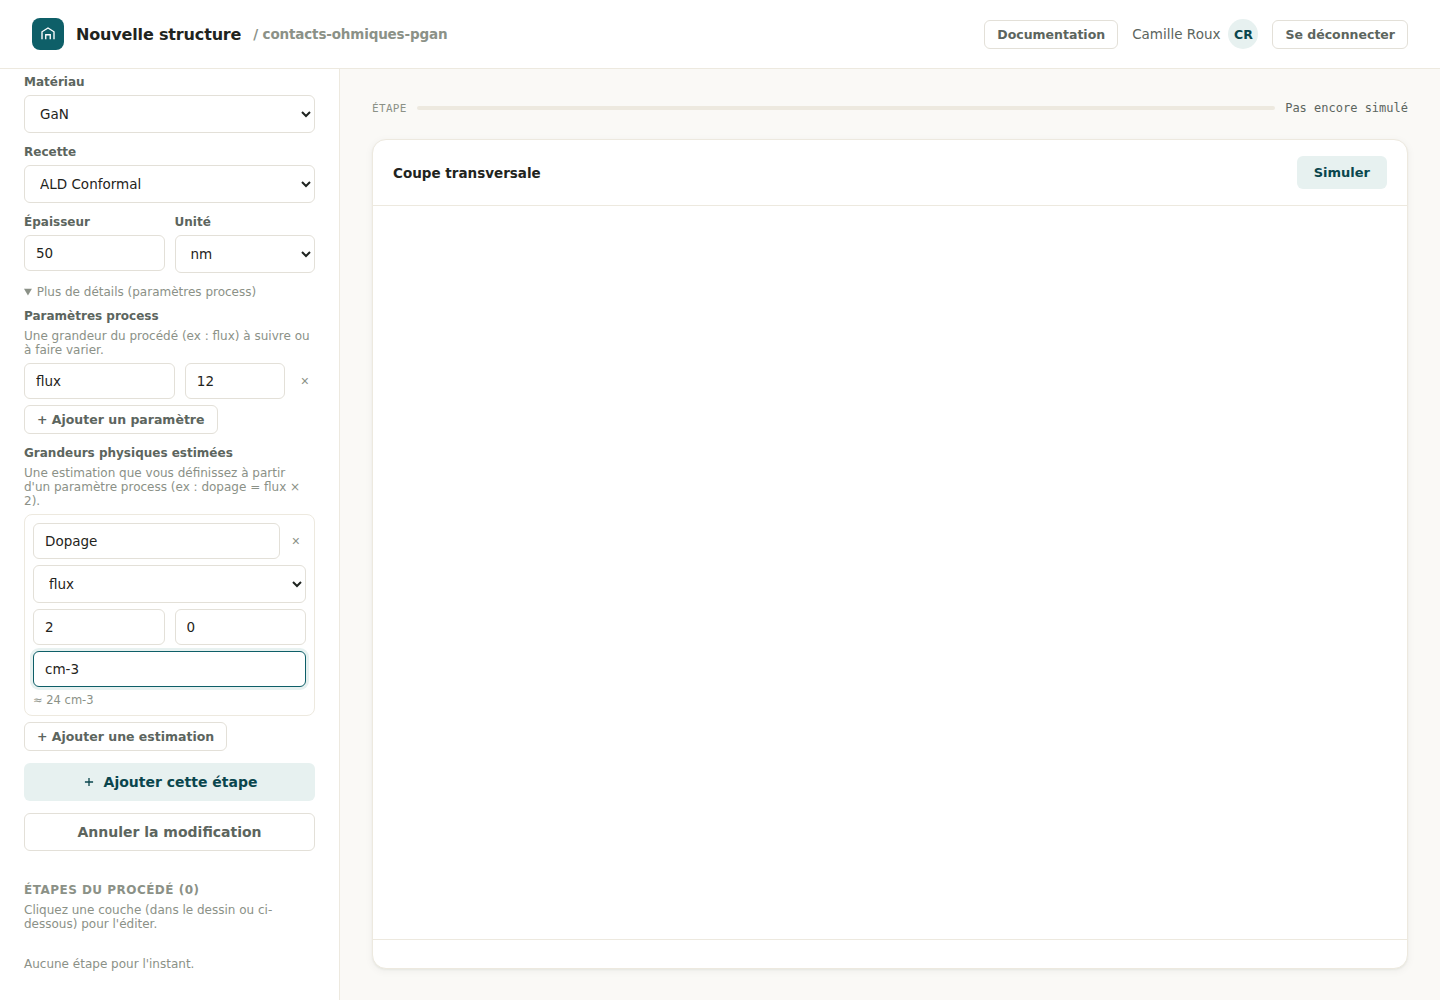
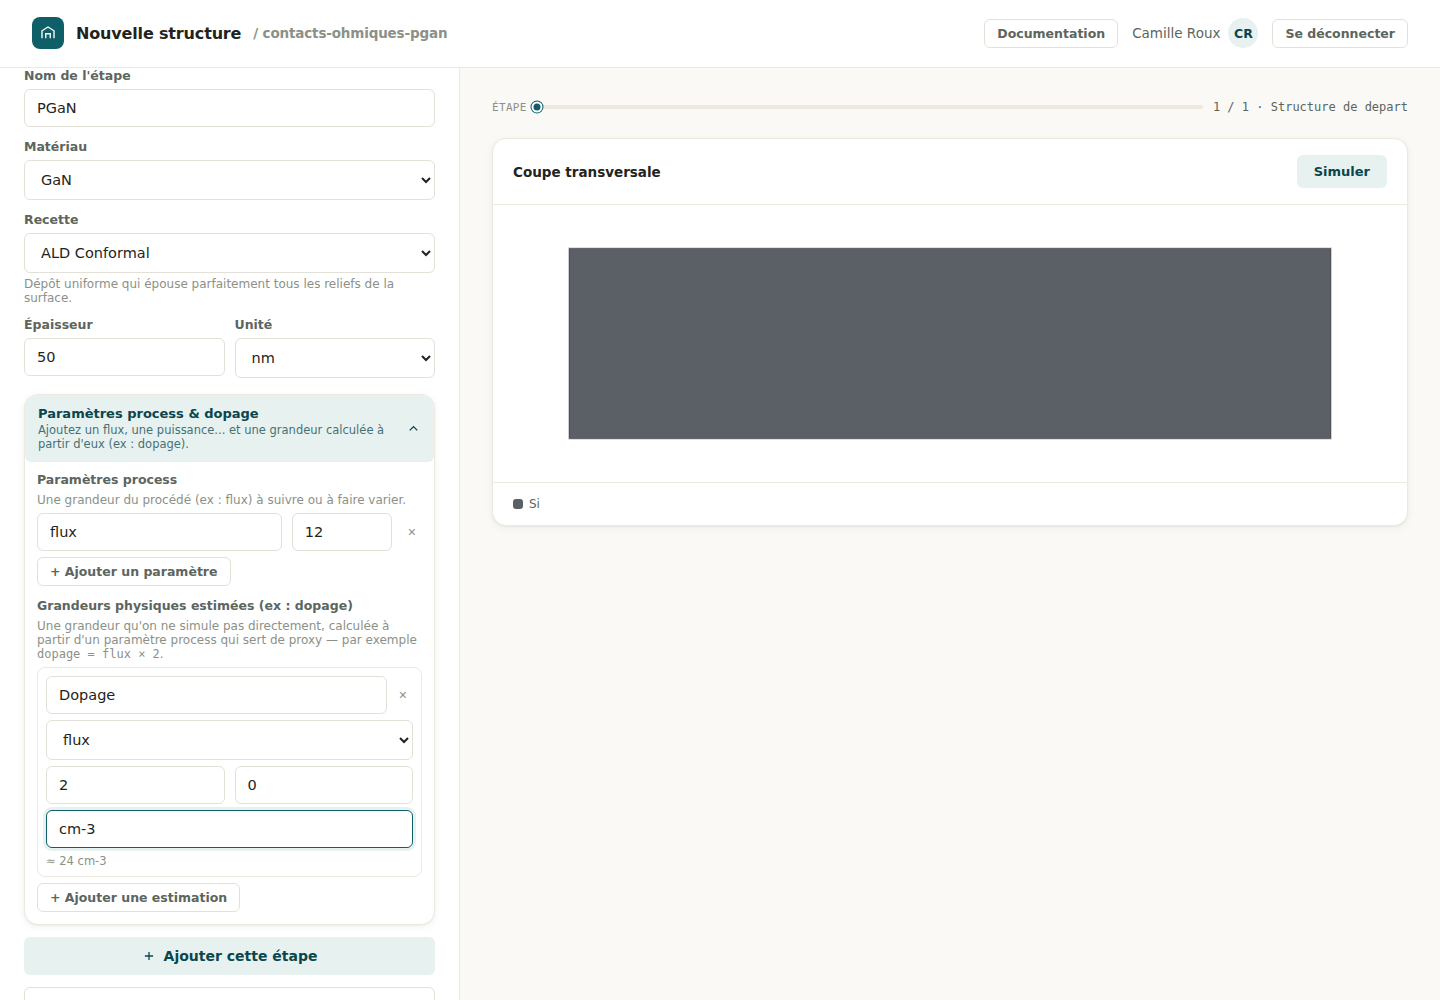
Refonte de la mise en page du constructeur : moins de canevas, plus de place aux paramètres
Trois plaintes concrètes sur l'ergonomie du constructeur :
- La coupe transversale occupait tout l'écran (colonne flex:1 sur toute la hauteur de la
  fenêtre) alors que le dessin lui-même reste simple - beaucoup d'espace vide.
- La colonne des paramètres était fixée à 340px, avec Substrat + Vue + étapes + campagne +
  objectifs + piste + lancement empilés verticalement : champs étroits, scroll long pour
  atteindre "Lancer".

Corrigé :
- Panneau des paramètres élargi à 460px, champs agrandis (padding/police) maintenant qu'ils
  ont la place.
- Coupe transversale plafonnée à 54vh au lieu de flex:1 - ne domine plus l'écran.
- Remplacement des sections repliables "Campagne"/"Objectifs" (ajoutées la passe précédente
  pour les rendre visibles) par de vrais onglets "Structure / Campagne (DOE) / Objectifs" :
  chaque onglet n'affiche que ce qui le concerne, "Lancer" reste toujours atteignable sans
  scroller à travers des sections sans rapport.
- Captures d'écran du guide et des exemples régénérées pour refléter la nouvelle interface.

diff --git a/spectre/api/static/structure-builder.html b/spectre/api/static/structure-builder.html
@@ -33,70 +33,74 @@
   <div class="builder-shell">
     <div class="builder-sidebar">
 
-      <div id="substrate-section">
-        <div class="section-title" style="margin-bottom:14px;">Substrat</div>
-        <div class="field-group">
-          <div><label>Matériau</label><select class="field" id="substrate-material"></select></div>
-          <div class="field-row">
-            <div><label>Largeur</label><input class="field" id="substrate-width" type="number" value="200"></div>
-            <div><label>Unité</label><select class="field" id="substrate-width-unit"><option value="nm" selected>nm</option><option value="um">µm</option></select></div>
-          </div>
-          <div class="field-row">
-            <div><label>Épaisseur</label><input class="field" id="substrate-thickness" type="number" value="50"></div>
-            <div><label>Unité</label><select class="field" id="substrate-thickness-unit"><option value="nm" selected>nm</option><option value="um">µm</option></select></div>
+      <div class="builder-tabs">
+        <button class="builder-tab active" id="tab-btn-structure" type="button">Structure</button>
+        <button class="builder-tab" id="tab-btn-campagne" type="button">Campagne (DOE)</button>
+        <button class="builder-tab" id="tab-btn-objectifs" type="button">Objectifs</button>
+      </div>
+
+      <div class="builder-tab-panel" id="tab-panel-structure">
+
+        <div id="substrate-section">
+          <div class="section-title" style="margin-bottom:14px;">Substrat</div>
+          <div class="field-group">
+            <div><label>Matériau</label><select class="field" id="substrate-material"></select></div>
+            <div class="field-row">
+              <div><label>Largeur</label><input class="field" id="substrate-width" type="number" value="200"></div>
+              <div><label>Unité</label><select class="field" id="substrate-width-unit"><option value="nm" selected>nm</option><option value="um">µm</option></select></div>
+            </div>
+            <div class="field-row">
+              <div><label>Épaisseur</label><input class="field" id="substrate-thickness" type="number" value="50"></div>
+              <div><label>Unité</label><select class="field" id="substrate-thickness-unit"><option value="nm" selected>nm</option><option value="um">µm</option></select></div>
+            </div>
           </div>
         </div>
-      </div>
 
-      <div>
-        <div class="section-title" style="margin-bottom:8px;">Vue</div>
-        <div class="view-toggle" style="margin-bottom:14px;">
-          <button class="view-toggle__btn active" id="view-mode-couches" type="button">Par couches</button>
-          <button class="view-toggle__btn" id="view-mode-etapes" type="button">Par étapes</button>
-        </div>
-        <div class="help" id="view-mode-help" style="margin-bottom:14px;">Cliquez une couche du dessin pour l'éditer. Disponible tant que la structure n'est faite que de dépôts (empilement d'épitaxie).</div>
-      </div>
-
-      <div id="step-form-section" style="display:none;">
-        <div class="section-title" style="margin-bottom:14px;" id="step-form-title">Ajouter une étape</div>
-        <div class="field-group">
-          <div>
-            <label>Type d'étape</label>
-            <select class="field" id="kind-select">
-              <option value="deposition">Dépôt</option>
-              <option value="etch">Gravure</option>
-              <option value="planarization">Planarisation</option>
-              <option value="lithography">Lithographie</option>
-              <option value="chemical">Étape chimique</option>
-              <option value="resist_strip">Retrait de résine</option>
-            </select>
+        <div>
+          <div class="section-title" style="margin-bottom:8px;">Vue</div>
+          <div class="view-toggle" style="margin-bottom:14px;">
+            <button class="view-toggle__btn active" id="view-mode-couches" type="button">Par couches</button>
+            <button class="view-toggle__btn" id="view-mode-etapes" type="button">Par étapes</button>
           </div>
-          <div id="kind-fields" class="field-group"></div>
-          <button class="btn btn-tint btn-block" id="add-step-btn" type="button">
-            <svg width="14" height="14" viewBox="0 0 24 24" fill="none" stroke="currentColor" stroke-width="2.2"><path d="M12 5v14M5 12h14"/></svg>
-            <span id="add-step-btn-label">Ajouter cette étape</span>
-          </button>
-          <button class="btn btn-line btn-block" id="cancel-edit-btn" type="button" style="display:none;">Annuler la modification</button>
+          <div class="help" id="view-mode-help" style="margin-bottom:14px;">Cliquez une couche du dessin pour l'éditer. Disponible tant que la structure n'est faite que de dépôts (empilement d'épitaxie).</div>
         </div>
+
+        <div id="step-form-section" style="display:none;">
+          <div class="section-title" style="margin-bottom:14px;" id="step-form-title">Ajouter une étape</div>
+          <div class="field-group">
+            <div>
+              <label>Type d'étape</label>
+              <select class="field" id="kind-select">
+                <option value="deposition">Dépôt</option>
+                <option value="etch">Gravure</option>
+                <option value="planarization">Planarisation</option>
+                <option value="lithography">Lithographie</option>
+                <option value="chemical">Étape chimique</option>
+                <option value="resist_strip">Retrait de résine</option>
+              </select>
+            </div>
+            <div id="kind-fields" class="field-group"></div>
+            <button class="btn btn-tint btn-block" id="add-step-btn" type="button">
+              <svg width="14" height="14" viewBox="0 0 24 24" fill="none" stroke="currentColor" stroke-width="2.2"><path d="M12 5v14M5 12h14"/></svg>
+              <span id="add-step-btn-label">Ajouter cette étape</span>
+            </button>
+            <button class="btn btn-line btn-block" id="cancel-edit-btn" type="button" style="display:none;">Annuler la modification</button>
+          </div>
+        </div>
+
+        <div>
+          <div class="section-title" style="margin-bottom:6px;">Étapes du procédé (<span id="steps-count">0</span>)</div>
+          <div class="help" style="margin-bottom:10px;" id="steps-list-help">Cliquez une étape pour la modifier ; ▲▼ pour la déplacer.</div>
+          <div id="steps-list" style="display:flex;flex-direction:column;gap:8px;"></div>
+          <button class="btn btn-line btn-block" id="add-step-shortcut-btn" type="button" style="margin-top:10px;display:none;">+ Ajouter une couche</button>
+        </div>
+
       </div>
 
-      <div style="flex:1;">
-        <div class="section-title" style="margin-bottom:6px;">Étapes du procédé (<span id="steps-count">0</span>)</div>
-        <div class="help" style="margin-bottom:10px;" id="steps-list-help">Cliquez une étape pour la modifier ; ▲▼ pour la déplacer.</div>
-        <div id="steps-list" style="display:flex;flex-direction:column;gap:8px;"></div>
-        <button class="btn btn-line btn-block" id="add-step-shortcut-btn" type="button" style="margin-top:10px;display:none;">+ Ajouter une couche</button>
-      </div>
-
-      <details id="campaign-section" class="card" style="padding:0;background:var(--bg);overflow:hidden;flex-shrink:0;">
-        <summary class="disclosure-btn disclosure-btn--tint">
-          <span>
-            Campagne DOE — plusieurs échantillons (split)
-            <span class="disclosure-btn__sub">Faire varier un ou plusieurs paramètres (ex : dopage) et lancer tous les échantillons en une fois.</span>
-          </span>
-          <svg class="disclosure-btn__chevron" width="16" height="16" viewBox="0 0 24 24" fill="none" stroke="currentColor" stroke-width="2.2"><path d="M6 9l6 6 6-6"/></svg>
-        </summary>
-        <div style="padding:14px 16px 16px;">
-          <div class="help" style="margin-bottom:10px;">Faites varier un ou plusieurs paramètres pour lancer une campagne de plusieurs échantillons en une seule expérience. Avec plusieurs paramètres, toutes les combinaisons sont générées (ex : 3 épaisseurs &times; 3 angles = 9 échantillons). La feuille de split (qui a reçu quelle valeur) apparaîtra sur la fiche de l'expérience une fois lancée.</div>
+      <div class="builder-tab-panel" id="tab-panel-campagne" style="display:none;">
+        <div>
+          <div class="section-title" style="margin-bottom:6px;">Campagne DOE — plusieurs échantillons (split)</div>
+          <div class="help" style="margin-bottom:12px;">Faites varier un ou plusieurs paramètres (ex : dopage) pour lancer une campagne de plusieurs échantillons en une seule expérience. Avec plusieurs paramètres, toutes les combinaisons sont générées (ex : 3 épaisseurs &times; 3 angles = 9 échantillons). La feuille de split (qui a reçu quelle valeur) apparaîtra sur la fiche de l'expérience une fois lancée.</div>
           <div id="campaign-factors" style="display:flex;flex-direction:column;gap:10px;margin-bottom:10px;"></div>
           <button class="btn btn-line btn-block" id="campaign-add-factor-btn" type="button" style="margin-bottom:10px;">+ Ajouter un paramètre</button>
           <div style="display:flex;gap:8px;">
@@ -105,38 +109,33 @@
           </div>
           <div id="campaign-result"></div>
         </div>
-      </details>
+      </div>
 
-      <details id="objectives-section" class="card" style="padding:0;overflow:hidden;flex-shrink:0;">
-        <summary class="disclosure-btn disclosure-btn--line">
-          <span>
-            Objectifs
-            <span class="disclosure-btn__sub">Ce qu'on cherche à savoir, et comment on saura si c'est atteint.</span>
-          </span>
-          <svg class="disclosure-btn__chevron" width="16" height="16" viewBox="0 0 24 24" fill="none" stroke="currentColor" stroke-width="2.2"><path d="M6 9l6 6 6-6"/></svg>
-        </summary>
-        <div style="padding:0 16px 16px;">
-        <div id="objectives-list" style="display:flex;flex-direction:column;gap:10px;margin-bottom:12px;"></div>
-        <form id="objective-form" style="display:flex;flex-direction:column;gap:8px;">
-          <div><label>Objectif</label><input class="field" id="obj-name" placeholder="ex : isolation électrique" required></div>
-          <div><label>Pourquoi cet objectif</label><textarea class="field" id="obj-rationale" rows="2" placeholder="ex : condition pour passer en production"></textarea></div>
-          <div class="field-row">
-            <div><label>Mesure</label><input class="field" id="obj-metric" placeholder="ex : resistivity_ohm_cm" required></div>
-            <div><label>Sens</label>
-              <select class="field" id="obj-direction">
-                <option value="observe">Observer</option>
-                <option value="maximize">Maximiser</option>
-                <option value="minimize">Minimiser</option>
-                <option value="target">Cible précise</option>
-              </select>
+      <div class="builder-tab-panel" id="tab-panel-objectifs" style="display:none;">
+        <div>
+          <div class="section-title" style="margin-bottom:6px;">Objectifs</div>
+          <div class="help" style="margin-bottom:12px;">Ce qu'on cherche à savoir avec cette expérience, et comment on saura si c'est atteint.</div>
+          <div id="objectives-list" style="display:flex;flex-direction:column;gap:10px;margin-bottom:12px;"></div>
+          <form id="objective-form" style="display:flex;flex-direction:column;gap:8px;">
+            <div><label>Objectif</label><input class="field" id="obj-name" placeholder="ex : isolation électrique" required></div>
+            <div><label>Pourquoi cet objectif</label><textarea class="field" id="obj-rationale" rows="2" placeholder="ex : condition pour passer en production"></textarea></div>
+            <div class="field-row">
+              <div><label>Mesure</label><input class="field" id="obj-metric" placeholder="ex : resistivity_ohm_cm" required></div>
+              <div><label>Sens</label>
+                <select class="field" id="obj-direction">
+                  <option value="observe">Observer</option>
+                  <option value="maximize">Maximiser</option>
+                  <option value="minimize">Minimiser</option>
+                  <option value="target">Cible précise</option>
+                </select>
+              </div>
             </div>
-          </div>
-          <div><label>Valeur cible (optionnelle)</label><input class="field" id="obj-target" type="number"></div>
-          <div><label>Comment on compte le vérifier</label><textarea class="field" id="obj-verification" rows="2" placeholder="ex : mesure au profilomètre après dépôt"></textarea></div>
-          <button class="btn btn-line btn-block" type="submit">Ajouter l'objectif</button>
-        </form>
+            <div><label>Valeur cible (optionnelle)</label><input class="field" id="obj-target" type="number"></div>
+            <div><label>Comment on compte le vérifier</label><textarea class="field" id="obj-verification" rows="2" placeholder="ex : mesure au profilomètre après dépôt"></textarea></div>
+            <button class="btn btn-line btn-block" type="submit">Ajouter l'objectif</button>
+          </form>
         </div>
-      </details>
+      </div>
 
       <div id="branch-choice-wrap" style="display:none;">
         <div class="section-title" style="margin-bottom:10px;">Piste</div>
@@ -171,12 +170,12 @@
         <div style="font-size:12px;color:var(--text-soft);white-space:nowrap;" id="scrubber-label">Pas encore simulé</div>
       </div>
 
-      <div class="card" style="flex:1;display:flex;flex-direction:column;">
+      <div class="card builder-canvas-card" style="display:flex;flex-direction:column;">
         <div style="display:flex;align-items:center;justify-content:space-between;padding:16px 20px;border-bottom:1px solid var(--border-soft);">
           <div style="font-size:13.5px;font-weight:700;">Coupe transversale</div>
           <button class="btn btn-tint" id="simulate-btn" type="button" style="padding:8px 16px;font-size:13px;">Simuler</button>
         </div>
-        <div style="flex:1;display:flex;align-items:center;justify-content:center;padding:24px;overflow:auto;" id="svg-container"></div>
+        <div style="flex:1;display:flex;align-items:center;justify-content:center;padding:24px;overflow:auto;min-height:0;" id="svg-container"></div>
         <div class="legend" id="legend"></div>
       </div>
     </div>

diff --git a/spectre/api/static/css/style.css b/spectre/api/static/css/style.css
@@ -585,7 +585,7 @@ textarea:focus {
 
 .builder-shell {
   display: grid;
-  grid-template-columns: 340px minmax(0, 1fr);
+  grid-template-columns: 460px minmax(0, 1fr);
   height: calc(100vh - 68px);
 }
 
@@ -595,9 +595,23 @@ textarea:focus {
   padding: var(--space-5) var(--space-5);
   display: flex;
   flex-direction: column;
-  gap: var(--space-6);
+  gap: var(--space-5);
   overflow-y: auto;
   min-height: 0;
+}
+
+/* Champs un peu plus confortables dans le panneau des paramètres, maintenant qu'il a la
+   largeur pour ça - la taille de police globale (12-13.5px) reste correcte ailleurs (fiches,
+   formulaires courts), mais se sentait exigüe ici avec beaucoup de champs empilés. */
+.builder-sidebar label {
+  font-size: 12.5px;
+}
+.builder-sidebar .field,
+.builder-sidebar input,
+.builder-sidebar select,
+.builder-sidebar textarea {
+  font-size: 14.5px;
+  padding: 10px 12px;
 }
 
 .builder-canvas {
@@ -607,6 +621,44 @@ textarea:focus {
   gap: var(--space-5);
   overflow-y: auto;
   min-height: 0;
+}
+
+.builder-canvas-card {
+  max-height: 54vh;
+}
+
+/* -- onglets internes au constructeur (Structure / Campagne / Objectifs) ----------------- */
+
+.builder-tabs {
+  display: flex;
+  gap: 4px;
+  border-bottom: 1px solid var(--border-soft);
+  flex: none;
+}
+
+.builder-tab {
+  padding: 9px 12px;
+  font-size: 13px;
+  font-weight: 600;
+  color: var(--text-faint);
+  border-bottom: 2px solid transparent;
+  cursor: pointer;
+  background: none;
+  border-top: none;
+  border-left: none;
+  border-right: none;
+  font-family: inherit;
+}
+
+.builder-tab.active {
+  color: var(--accent-dark);
+  border-bottom-color: var(--accent);
+}
+
+.builder-tab-panel {
+  display: flex;
+  flex-direction: column;
+  gap: var(--space-5);
 }
 
 .step-row {

diff --git a/spectre/api/static/js/structure-builder.js b/spectre/api/static/js/structure-builder.js
@@ -513,6 +513,17 @@ function setViewMode(mode) {
 
 document.getElementById("view-mode-couches").addEventListener("click", () => setViewMode("couches"));
 document.getElementById("view-mode-etapes").addEventListener("click", () => setViewMode("etapes"));
+
+const BUILDER_TABS = ["structure", "campagne", "objectifs"];
+function setActiveTab(tab) {
+  BUILDER_TABS.forEach((name) => {
+    document.getElementById(`tab-btn-${name}`).classList.toggle("active", name === tab);
+    document.getElementById(`tab-panel-${name}`).style.display = name === tab ? "" : "none";
+  });
+}
+BUILDER_TABS.forEach((name) => {
+  document.getElementById(`tab-btn-${name}`).addEventListener("click", () => setActiveTab(name));
+});
 document.getElementById("add-step-shortcut-btn").addEventListener("click", startAddingStep);
 
 document.getElementById("svg-container").addEventListener("click", (event) => {
@@ -752,7 +763,7 @@ async function loadExistingProcess() {
     const verification = detail.objective_verification || {};
     state.objectives = detail.objectives.map((o) => ({ ...o, verification_method: verification[o.name] || null }));
     renderObjectives();
-    document.getElementById("objectives-section").open = state.objectives.length > 0;
+    if (state.objectives.length > 0) setActiveTab("objectifs");
   } catch (err) {
     showError(err);
   }
@@ -914,7 +925,7 @@ async function loadTemplateProcess() {
 async function init() {
   document.getElementById("crumb").textContent = "/ " + slug;
   if (evolveExperienceId) {
-    document.getElementById("campaign-section").style.display = "none";
+    document.getElementById("tab-btn-campagne").style.display = "none";
     document.getElementById("branch-choice-wrap").style.display = "block";
   }
   await loadPickers();
